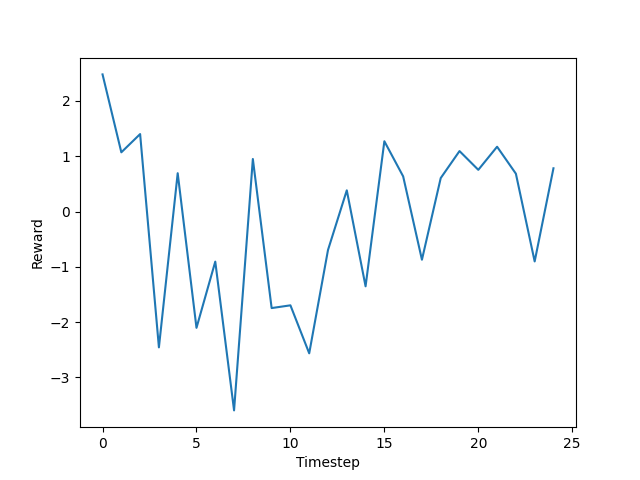
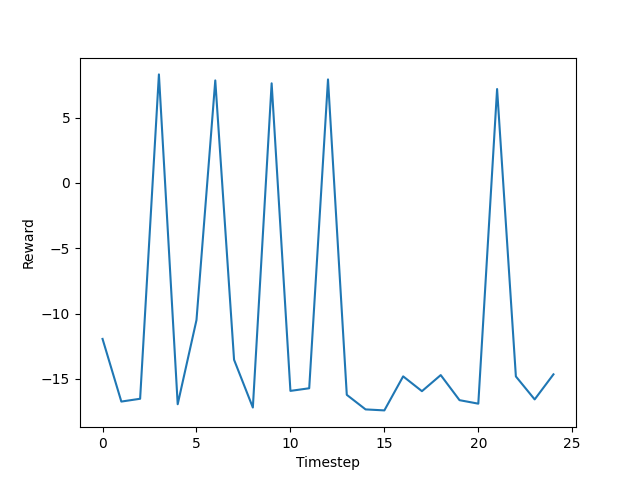
0.1.1

diff --git a/environment/environment.py b/environment/environment.py
@@ -183,7 +183,7 @@ class Env:
         
         self.shape = (windowSize, 1)
         self.actionSpace = OneD(self.noUav) 
-        self.observationSize = self.noUav * 3
+        self.observationSize = self.noUav * 4
         self.observationSpace = Box(low=np.full(self.observationSize, -np.inf), high=np.full(self.observationSize, np.inf), size=(self.observationSize, ))
         
         
@@ -205,6 +205,7 @@ class Env:
         self.current = self.start
         self.reward = 0
         self.uavId = 0
+        self.maxUavId = 0
         
         self.throughput = []
         self.totalReward = []
@@ -213,36 +214,88 @@ class Env:
         return self.getState()
 
     def getState(self):
-        self.cluster = [
-            Uav(
-                v=np.random.uniform(100, 190),
-                tx=np.random.uniform(21, 27) + self.reward if self.uavId == id else np.random.uniform(21, 27),
-                noise=174,
-                baseStationCoords=self.baseStationCoords
-            ) for id in range(self.noUav)
-        ]
+        self.cluster = []
+        for id in range(self.noUav):
+            if self.current == self.start:
+                velo = np.random.uniform(100,190)
+                txDbm = np.random.uniform(21, 27)
+                # print(txDbm)
+                # coords = (np.random.uniform(22, 250), np.random.uniform(22, 250))
+            elif self.uavId == id:
+                # print("NIGGA FOUND")
+                v = self.state[self.uavId][1]
+                if self.reward>0:
+                    velo = np.random.uniform(v, 190)
+                # elif v < 145 and self.reward>0:
+                #     velo = np.random.uniform(100, v)
+                else:
+                    velo = np.random.uniform(100,190)
+                txDbm = np.random.uniform(21, 27) + self.reward
+            else:
+                velo = np.random.uniform(100,190)
+                txDbm = np.random.uniform(21, 27) - self.reward/2
+                
+            # if txDbm >= 27:
+            #     txDbm = 27
+            if txDbm < 21:
+                txDbm = 21
+            obj = Uav(
+                v = velo,
+                tx = txDbm,
+                noise = 174,
+                baseStationCoords = self.baseStationCoords
+            )
+            self.cluster.append(obj)
+            
+        # self.cluster = [
+        #     Uav(
+        #         v=np.random.uniform(100, 190),
+        #         tx=np.random.uniform(21, 27) + self.reward if self.uavId == id else np.random.uniform(21, 27),
+        #         noise=174,
+        #         baseStationCoords=self.baseStationCoords
+        #     ) for id in range(self.noUav)
+        # ]
         for _, uav in enumerate(self.cluster):
             snir = uav.calcSNIR()
             throughtput = uav.calcThroughput()
-            self.state.append([uav.tx, snir, throughtput])
+            self.state.append([uav.dBmtx, uav.v, snir, throughtput])
             
         # print(self.state)
         
         return np.array(self.state)
     
     def calcReward(self, action):
+        stateArr = np.array(self.state)
+        self.maxUavId = np.argmax(stateArr[:, 2])
         self.uavId = action
-        throughput = self.cluster[action].calcThroughput()
-        if throughput >= self.memoryT[-1] and throughput >= max(self.memoryT):
-            return self.cluster[self.uavId].tx/6
-        elif throughput >= self.memoryT[-1] and throughput < max(self.memoryT):
-            return self.cluster[self.uavId].tx/12
+        throughputSelected = self.cluster[self.uavId].calcThroughput()
+        snirSelected = self.cluster[self.uavId].calcSNIR()
+        snirMax = self.cluster[self.maxUavId].calcSNIR()
+        if snirSelected>=snirMax and throughputSelected >= max(self.memoryT):
+            reward = self.cluster[self.uavId].dBmtx
+            return reward / 2
+        elif snirSelected>=snirMax and throughputSelected >= self.memoryT[-1]:
+            reward = self.cluster[self.uavId].dBmtx
+            return reward / 4
+        elif snirSelected<snirMax:
+            reward = self.cluster[self.maxUavId].dBmtx
+            return -(reward / 2)
         else:
-            return -self.cluster[self.uavId].tx/6 
+            reward = self.cluster[self.maxUavId].dBmtx
+            return -(reward / 4)
+        
+        
+        # throughput = self.cluster[action].calcThroughput()
+        # if throughput >= self.memoryT[-1] and throughput >= max(self.memoryT):
+        #     return self.cluster[self.uavId].tx/6
+        # elif throughput >= self.memoryT[-1] and throughput < max(self.memoryT):
+        #     return self.cluster[self.uavId].tx/12
+        # else:
+        #     return -self.cluster[self.uavId].tx/6 
     
     def step(self, action): 
-        self.memoryT.append(self.cluster[self.uavId].calcThroughput())
         self.current+=1
+        self.memoryT.append(self.cluster[self.uavId].calcThroughput())
         
         if self.current == self.end:
             self.done = True

diff --git a/agent/agent.py b/agent/agent.py
@@ -1,65 +1,3 @@
-# import tensorflow as tf
-# from tensorflow.keras.models import Sequential
-# from tensorflow.keras.layers import Dense, Flatten
-# from tensorflow.keras.optimizers import Adam
-# import numpy as np
-# import random
-# from collections import deque
-
-# class Agent:
-#     def __init__(self, state_size, action_size):
-#         self.state_size = state_size
-#         self.action_size = action_size
-#         self.memory = deque(maxlen=50000)  # Experience replay buffer
-#         self.gamma = 0.99  # Discount factor
-#         self.epsilon = 1.0  # Exploration-exploitation trade-off
-#         self.epsilon_decay = 0.995
-#         self.epsilon_min = 0.01
-#         self.learning_rate = 0.001
-#         self.model = self.build_model()
-
-#     def build_model(self):
-#         with tf.device("/GPU:0"):
-#             model = Sequential()
-#             model.add(Flatten(input_shape=(self.state_size,)))
-#             model.add(Dense(22, activation='relu'))
-#             model.add(Dense(15, activation='relu'))
-#             model.add(Dense(self.action_size, activation='linear'))
-#             model.compile(loss='mse', optimizer=Adam(learning_rate=self.learning_rate))
-#             return model
-
-#     def remember(self, state, action, reward, next_state, done):
-#         self.memory.append((state, action, reward, next_state, done))
-
-#     def act(self, state):
-#         if np.random.rand() <= self.epsilon:
-#             return random.choice(range(self.action_size))
-        
-#         # Reshape state to match the expected input shape
-#         state = np.reshape(state, [1, self.state_size])
-        
-#         q_values = self.model.predict(state)
-#         return np.argmax(q_values[0])
-
-#     def replay(self, batch_size):
-#         if len(self.memory) < batch_size:
-#             return
-#         minibatch = random.sample(self.memory, batch_size)
-#         for state, action, reward, next_state, done in minibatch:
-#             target = reward
-#             if not done:
-#                 target = reward + self.gamma * np.amax(self.model.predict(next_state)[0])
-#             target_f = self.model.predict(state)
-#             target_f[0][action] = target
-#             self.model.fit(state, target_f, epochs=1, verbose=0)
-#         if self.epsilon > self.epsilon_min:
-#             self.epsilon *= self.epsilon_decay
-
-#     def train(self, state, action, reward, next_state, done):
-#         state = np.reshape(state, [1, self.state_size])
-#         next_state = np.reshape(next_state, [1, self.state_size])
-#         self.remember(state, action, reward, next_state, done)
-#         self.replay(batch_size=32)
 import tensorflow as tf
 from tensorflow.keras.models import Sequential
 from tensorflow.keras.layers import Dense, Flatten
@@ -68,6 +6,10 @@ import numpy as np
 import random
 from collections import deque
 from tqdm import tqdm  # Import tqdm for the progress bar
+
+import matplotlib.pyplot as plt
+from matplotlib.cm import get_cmap
+import os
 
 class Agent:
     def __init__(self, state_size, action_size):
@@ -136,9 +78,10 @@ class Agent:
 
             # Print episode information
             tqdm.write(f"Episode: {len(self.episode_rewards)}, Epsilon: {self.epsilon}, Episode Reward: {episode_reward}, Mean Loss: {np.mean(episode_losses)}")
-
+            self.render()
             # Reset memory for the next episode
             self.memory.clear()
+            
 
             # Update epsilon
             if self.epsilon > self.epsilon_min:
@@ -146,3 +89,14 @@ class Agent:
 
         if num_episodes is not None and len(self.episode_rewards) >= num_episodes:
             return  # Stop training after reaching the specified number of episodes
+
+    def render(self):
+        timestep = range(len(self.episode_rewards))
+        plt.plot(timestep, self.episode_rewards)
+        plt.xlabel('Step')
+        plt.ylabel('Reward')
+        os.makedirs('aggRewad', exist_ok=True)
+
+    # Save the plot to the 'rewardGraphs/' directory
+        plt.savefig(f'aggRewad/rewards_aggregate.png')
+        plt.close()

diff --git a/environment/dataset.py b/environment/dataset.py
@@ -4,14 +4,15 @@ import math
 class Uav:
     def __init__(self, v, tx, noise, baseStationCoords):
         self.v = v * (5/18) # Velocity Kmph
-        # self.tx = tx * self.v # Transmission Power dBm
-        self.tx = self.calcTx(tx) # in watts
+        self.dBmtx = tx# Transmission Power dBm
+        self.tx = self.calcTx(self.dBmtx) # in watts
         self.noise = noise # Extra Noise dB
         self.intref = np.random.rand()*tx # Induce Noise
         self.base = baseStationCoords 
         self.coords = (np.random.uniform(22, 250), np.random.uniform(22, 250))
         self.d = self.calcDist()
         self.chGain = (1/self.d) * self.v # Channel Gain
+        # print(tx)
         
         if self.d <= 26.5:
             self.B = 4e+7 # 40Mhz
@@ -63,26 +64,26 @@ class Uav:
             print(f"Values causing the warning - snir: {snir}, B: {self.B}")
             return np.nan
     
-class Dataset:
-    def __init__(self, noUav, timestep):
-            self.noUav = noUav
-            self.timestep = timestep
-            self.baseStationCoords = (np.random.uniform(0, 272), np.random.uniform(0, 272))
-            self.data = np.zeros((timestep,2*self.noUav))
+# class Dataset:
+#     def __init__(self, noUav, timestep):
+#             self.noUav = noUav
+#             self.timestep = timestep
+#             self.baseStationCoords = (np.random.uniform(0, 272), np.random.uniform(0, 272))
+#             self.data = np.zeros((timestep,2*self.noUav))
             
-    def genDataset(self, idx, reward):
-        transx = np.random.uniform(21, 27) + reward
-        if transx >= 27:
-            transx = 27
-        for t in range(self.timestep):
-            self.cluster = [Uav(
-            v=np.random.uniform(150, 190), #
-            tx= transx if idx == id else np.random.uniform(21, 27),
-            noise=174,
-            baseStationCoords=self.baseStationCoords
-        ) for id in range(self.noUav)]
-            for i, uav in enumerate(self.cluster):
-                snir = uav.calcSNIR()
-                throughput = uav.calcThroughput()
-                self.data[t, 2 * i] = snir
-                self.data[t, 2 * i + 1] = throughput
+#     def genDataset(self, idx, reward):
+#         transx = np.random.uniform(21, 27) + reward
+#         if transx >= 27:
+#             transx = 27
+#         for t in range(self.timestep):
+#             self.cluster = [Uav(
+#             v=np.random.uniform(150, 190), #
+#             tx= transx if idx == id else np.random.uniform(21, 27),
+#             noise=174,
+#             baseStationCoords=self.baseStationCoords
+#         ) for id in range(self.noUav)]
+#             for i, uav in enumerate(self.cluster):
+#                 snir = uav.calcSNIR()
+#                 throughput = uav.calcThroughput()
+#                 self.data[t, 2 * i] = snir
+#                 self.data[t, 2 * i + 1] = throughput

diff --git a/main.py b/main.py
@@ -13,7 +13,11 @@ from agent.agent import Agent
 
 # env = Env(noUav=5, windowSize=10, end=100)
 env = Env(5)
-current = env.reset()
+# current = env.reset()
+# action = env.actionSpace.sample()
+# print(action)
+# state, reward, done = env.step(action)
+# print(state, reward, done)
 
 # print(env.actionSpace.sample())
 # print(current)
@@ -25,7 +29,7 @@ current = env.reset()
 #     state, reward, done = env.step(action)
 #     # print(done, reward, env.uavId)
 #     # print(reward)
-#     # print(env.uavId)
+#     print(env.uavId, reward)
 #     if done:
 #         # print(state)
 #         # print(env.uavId)
@@ -68,4 +72,5 @@ for episode in range(EPISODES):
         if done:
             break
         
-    env.render(episode)
+    if episode%10 == 0 or episode == 0:
+        env.render(episode)
